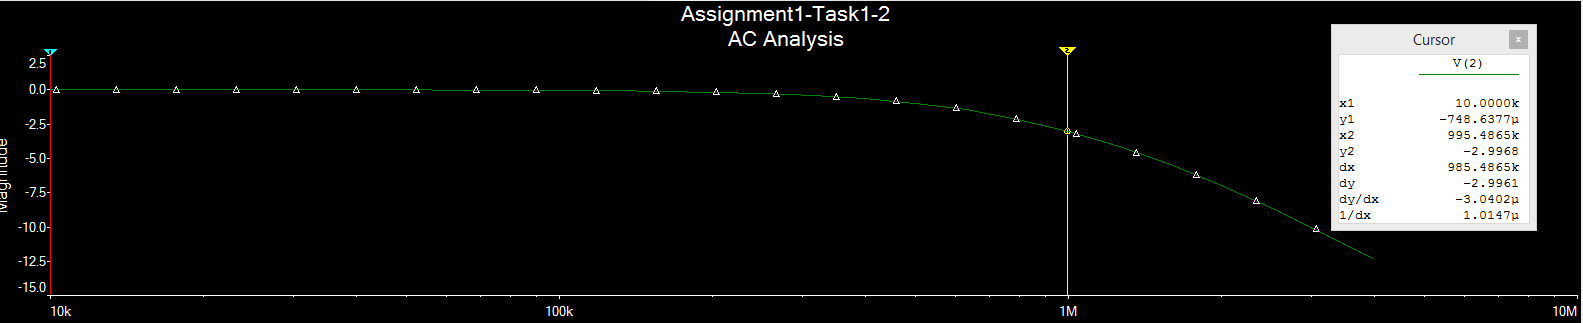
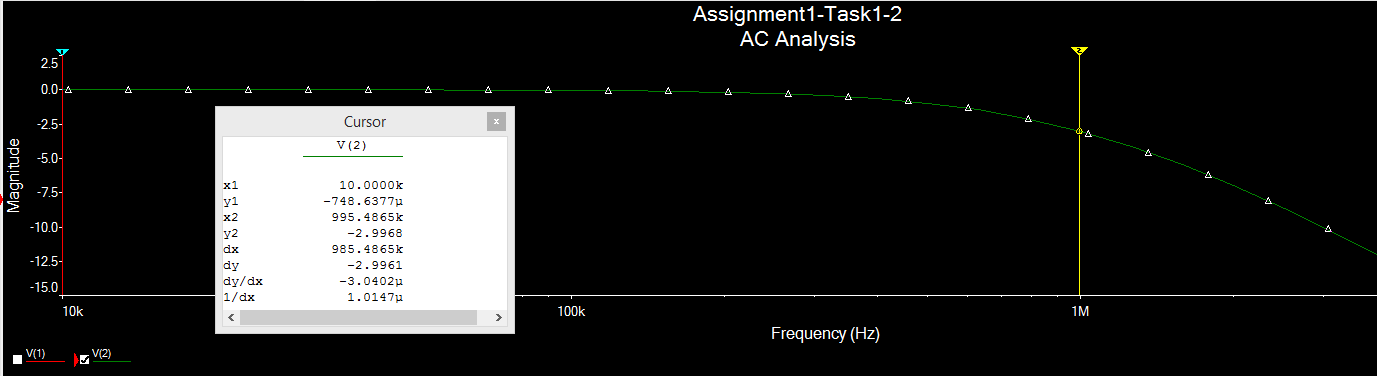
Update

diff --git a/Assignmet1/Assignmet1.tex b/Assignmet1/Assignmet1.tex
@@ -52,26 +52,99 @@ Teachers:\qquad Slawomir Koziel\\ % Instructor/supervisor
 
 \begin{enumerate}
   \item[1.]
-		\includegraphics[width=10cm]{Task1-1Circuit}\\
-		\includegraphics[width=10cm]{Task1-1-Oscilloscope}
+  The circuit diagram shown below was simulated in $MultiSim$ to find the slew-rate(SR) of a op amp.\\
+    \begin{minipage}{\linewidth}
+      \centering       
+       \includegraphics[width=10cm]{Task1-1Circuit}\\
+   	 \captionof{figure}{yoyo} 
+    \end{minipage}
+    
+Fig 2 shows the measurements from the Oscilloscope. The diagram shows the effect of slew rate limiting on the output rectangular waveform.\\
+    \begin{minipage}{\linewidth}
+      \centering       
+       \includegraphics[width=10cm]{Task1-1-Oscilloscope}\\
+      \captionof{figure}{} 
+    \end{minipage}
+		% \includegraphics[width=10cm]{Task1-1Circuit}\\
+		% \includegraphics[width=10cm]{Task1-1-Oscilloscope}\\
   
   \item[2.]
-  		\includegraphics[width=10cm]{Task1-2-Circuit}\\
-		\includegraphics[width=10cm]{Task1-2-ACAnalysis}
-  \item[3.]
-    	\includegraphics[width=10cm]{Task1-3-Circuit}\\
-		\includegraphics[width=10cm]{Task1-3-DCAnalysis}
-  \item[4.]
+	The circuit diagram shown below was simulated with AC analysis to determine the gain-bandwidth product(GBW) of the op amp.  
   
-	\begin{tabular}{l*{3}{c}r}
-	$\mu$ A741 op-Amp              & DataSheet & Simulation  \\
-	\hline
-	Slew Rate [$SR$]   & 6 & 4 \\
-	Gain-Bandwidth [$GBW$]              & 6 & 3 \\
-	DC Differential Gain [$A_{d}$]             & 6 & 2 \\
-	Input Offset Voltage [$V_{os}$]           & 6 & 2 \\
-	\end{tabular}
+      \begin{minipage}{\linewidth}
+      \centering
+        \includegraphics[width=10cm]{Task1-2-Circuit}\\
+    \captionof{figure}{} 
+    \end{minipage}
+    
+    Fig 4 shows the measurments from the AC analysis of the circuit. 
+    $$ BW \simeq f_{H} $$
+    $$ GB = |A_{G}|BW $$
+    
+    We know that the gain is 1 of a voltage follower.
+    $$ GB = BW $$
+    
+    The $f_{H}$ is 995.486 kHz in Fig 4. So the gain-bandwidth product is
+    $$ GB = 995.486  kHz$$
+    
+    \begin{minipage}{\linewidth}
+      \centering
+        \includegraphics[width=10cm]{Task1-2-ACAnalysis}\\
+    \captionof{figure}{}     
+    \end{minipage}
+  % 		\includegraphics[width=10cm]{Task1-2-Circuit}\\
+		% \includegraphics[width=10cm]{Task1-2-ACAnalysis}\\
+  \item[3.]
+  
+  
+  The circuit below was simulated in MultiSim to determine the DC differential gain $A_{d}$ and the input offset voltage $V_{OS}$ of the op amp.
+  
+      \begin{minipage}{\linewidth}
+      \centering
+      \includegraphics[width=10cm]{Task1-3-Circuit}\\
+    \captionof{figure}{}   
+    \end{minipage}
+    
+Fig 6 show the result of the DC analysis of the circuit in Fig 5. Hence that the DC differential gain is
+$$A_{d} = 206.505 \frac{V}{mV} $$    
+    
+    
+        \begin{minipage}{\linewidth}
+      \centering
+      \includegraphics[width=10cm]{Task1-3-DCAnalysis}\\
+    \captionof{figure}{}    
+    \end{minipage}\\
+    
+Fig 7 shows the result of the DC analysis and hence the offset Voltage can be determine to be
+$$ V_{OS} = 1.147 mV $$\\
+    
+    
+\begin{minipage}{\linewidth}
+	\centering
+    \includegraphics[width=10cm]{Task1-3-Vos}\\
+    \captionof{figure}{}    
+    \end{minipage}\\
+    
+    
+ \item[4.]
+ 
 
+In table 1 there you can see the diffrence between theoretical values and simulated values of the $\mu A741$ op amp.\\
+
+\begin{minipage}{\linewidth}
+
+\begin{center}
+	\begin{tabular}{l*{3}{c}r}{Hello}
+		$\mu$ A741 op-Amp              & DataSheet & Simulation  \\
+		\hline
+		Slew Rate [$SR$] & 0.5 $ [\frac{V}{\mu s}]$ & 0.456 $ 		 [\frac{V}{\mu s}]$ \\
+	Gain-Bandwidth [$GBW$]& 1 $ [MHz]$  & 995.487 $ [MHz]$ \\
+	DC Differential Gain [$A_{d}$] & 200 $[\frac{V}{mV}]$ & 206.505 $[\frac{V}{mV}]$ \\
+	Input Offset Voltage [$V_{os}$] & 5 $[mV]$& 1.147 $[mV]$ \\
+		\end{tabular}
+		\captionof{table}{Theoretical and simulated values of $\mu$A741 op amp}
+\end{center}
+\end{minipage}
 \end{enumerate}
 
 \section*{Task 2: Frequency Response of Inverting Amplifier}
@@ -79,8 +152,21 @@ Teachers:\qquad Slawomir Koziel\\ % Instructor/supervisor
 \begin{enumerate}
   \item[1.]
   
+  Figure below shows the inverting amplifier that we simulated in MultiSim. The task was to determine the 3dB corner frequency of the op amp with AC analysis.\\
+  \begin{minipage}{\linewidth}
+	\centering
+  		\includegraphics[width=10cm]{Task2-1-Circuit}\\
+    \captionof{figure}{}    
+    \end{minipage}\\
+
   \item[2.]
   
+  
+    \begin{minipage}{\linewidth}
+	\centering
+  		\includegraphics[width=10cm]{Task2-1-ACAnalysis}\\
+    \captionof{figure}{}    
+    \end{minipage}\\
 \end{enumerate}
 
 \section*{Task 3: Op Amplifies Design}
@@ -158,13 +244,13 @@ Teachers:\qquad Slawomir Koziel\\ % Instructor/supervisor
   \begin{minipage}{\linewidth}
     	\centering
 		\captionof{figure}{The transient analysis were the capacitor value is $1mF$ instead of $100\mu F$}        
-        \includegraphics[width=13cm]{4_4.jpg}
+%        \includegraphics[width=13cm]{4_4.jpg}
   \end{minipage}
     
    The ripple voltage should not be larger than 2 $\%$ of the peak voltage, $V_r(max) = 0.02 \cdot 9.935 V = 0.1987 V$. And from the graph and cursors the actual ripple voltage after the change: $$ V_r = 9.2364 \: V - 9.0928 \: V = 0.1436 \: V < V_r(max) = 0.1987 \: V$$
    
 
-
+\end{enumerate}
 
 
 
